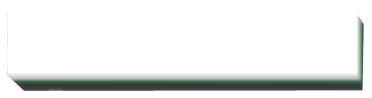
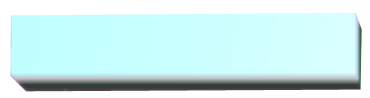
powerup color change

diff --git a/js/systemSettings.js b/js/systemSettings.js
@@ -49,8 +49,6 @@ for (var j = 0; j < numRows; j++) {
                             xMax: brickWidth * (i + 1) - (roomWidth / 2) - spacing,
                             yMin: j * brickHeight + spacing + yOffset,
                             yMax: (j + 1) * brickHeight - spacing + yOffset,
-                            // zMin: distFromCenter,
-                            // zMax: distFromCenter + brickDepth,
                             zMin: -brickDepth / 2 + brickDepth / 2 + distBetween,
                             zMax: brickDepth / 2 + brickDepth / 2 + distBetween,
                             alive: true,
@@ -62,8 +60,6 @@ for (var j = 0; j < numRows; j++) {
                             xMax: brickWidth * (i + 1) - (roomWidth / 2) - spacing,
                             yMin: j * brickHeight + spacing + yOffset,
                             yMax: (j + 1) * brickHeight - spacing + yOffset,
-                            // zMin: -distFromCenter,
-                            // zMax: -distFromCenter - brickDepth / 2,
                             zMin: -brickDepth / 2 - brickDepth / 2 - distBetween,
                             zMax: brickDepth / 2 - brickDepth / 2 - distBetween,
                             alive: true,
@@ -98,7 +94,10 @@ var platformBox_2 = {   xMin: platformPosition_2.x - platformWidth / 2,
 
 var emissive = 0x343434;
 var emissivePowerup = 0xbbbbbb;
-var freezeMaterial = new THREE.MeshPhongMaterial( {color: 0x777777, emissive: emissivePowerup, side: THREE.DoubleSide } );
+var scoreMaterial = new THREE.MeshPhongMaterial( {color: 0xFF0000, emissive: emissivePowerup, side: THREE.DoubleSide } );
+var wideMaterial = new THREE.MeshPhongMaterial( {color: 0x0000FF, emissive: emissivePowerup, side: THREE.DoubleSide } );
+var freezeMaterial = new THREE.MeshPhongMaterial( {color: 0x0066FF, emissive: emissivePowerup, side: THREE.DoubleSide } );
+var ballMaterial = new THREE.MeshPhongMaterial( {color: 0x00FF00, emissive: emissivePowerup, side: THREE.DoubleSide } );
 
 var material_player1_normal = new THREE.MeshPhongMaterial( {color: 0x00FF50, emissive: emissive, side: THREE.DoubleSide } );
 var material_player1_light  = new THREE.MeshLambertMaterial( {color: 0xaaaaaa, emissive: emissive, side: THREE.DoubleSide } );
@@ -109,7 +108,7 @@ var material_player2_light  = new THREE.MeshLambertMaterial( {color: 0xaaaaaa, e
 var material_player2_dark   = new THREE.MeshLambertMaterial( {color: 0xaaaaaa, emissive: emissive, side: THREE.DoubleSide } );
 
 // order of powerups: normal, 2x score, widen platform, freeze opponent, add ball
-var material_powerups   = [[material_player1_normal, material_player2_normal], new THREE.MeshPhongMaterial( {color: 0xFF0000, emissive: emissivePowerup, side: THREE.DoubleSide } ), new THREE.MeshPhongMaterial( {color: 0x0000FF, emissive: emissivePowerup, side: THREE.DoubleSide } ), freezeMaterial, new THREE.MeshPhongMaterial( {color: 0x0066FF, emissive: emissivePowerup, side: THREE.DoubleSide } )];
+var material_powerups   = [[material_player1_normal, material_player2_normal], scoreMaterial, wideMaterial, freezeMaterial, ballMaterial];
 var material_probs = [40, 2, 3, 2, 3];
 var material_probs_total = 0;
 for (var i = 0; i < material_probs.length; i++) {
